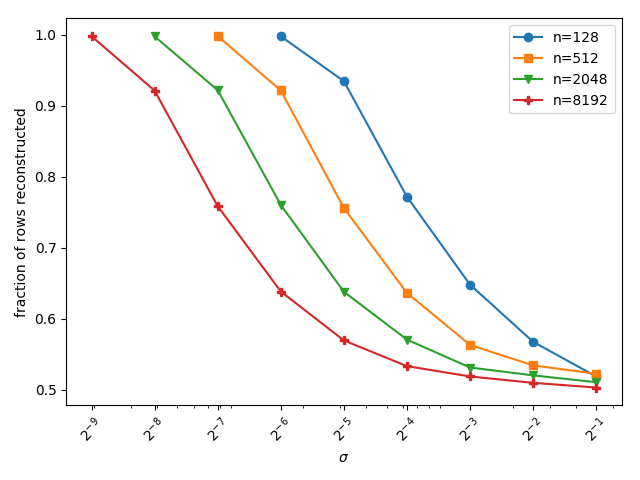
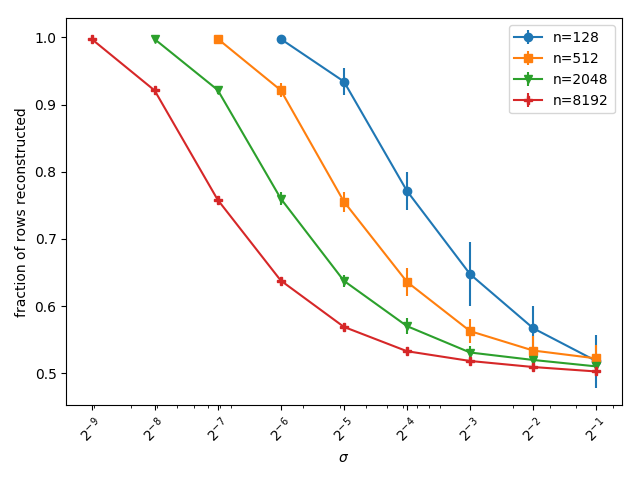
adding standard deviation error bars

diff --git a/hw1/pr1_graphs.py b/hw1/pr1_graphs.py
@@ -38,9 +38,9 @@ def graph_hadamard(data, graph_filename):
         sub_data = list(filter(lambda d: d[0] == n, data))
         sub_data_xs = list(map(lambda d: d[1], sub_data))
         sub_data_ys = list(map(lambda d: d[3], sub_data))
-        sub_data_ci = list(map(lambda d: d[4], sub_data))
+        sub_data_sd = list(map(lambda d: d[4], sub_data))
 
-        plt.plot(sub_data_xs, sub_data_ys, marker=MARKERS[counter], label="n={0:d}".format(n))
+        plt.errorbar(sub_data_xs, sub_data_ys, yerr=sub_data_sd, marker=MARKERS[counter], label="n={0:d}".format(n))
         counter += 1
 
     plt.legend()
